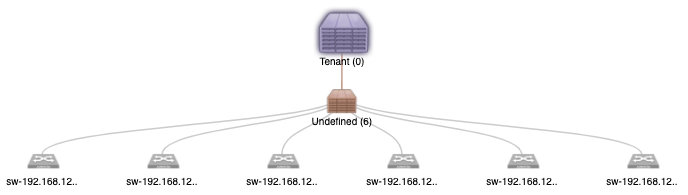
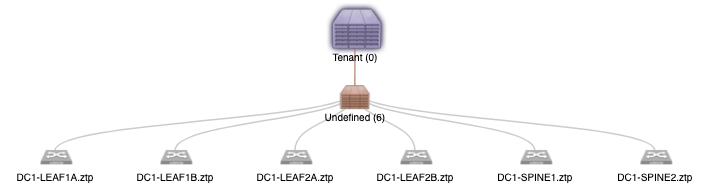
readme, playbook and dhcpd update

diff --git a/README.md b/README.md
@@ -5,6 +5,7 @@
 - [ANSIBLE-CVP COOKIECUTTER](#ansible-cvp-cookiecutter)
   - [Description](#description)
   - [Lab Topology](#lab-topology)
+  - [Clone Cookiecutter Repository](#clone-cookiecutter-repository)
   - [Preparing the Lab](#preparing-the-lab)
   - [HOW TO RUN](#how-to-run)
 
@@ -24,6 +25,23 @@ The lab must be created before using cookiecutter using EVE-NG, GNS3, KVM or sim
 
 All VMs in the lab should have access to a shared OOB network with a linux machine used to provide DHCP service and to route packets to CVP.
 
+## Clone Cookiecutter Repository
+
+To clone cookiecutter repository run following commands:
+
+```console
+python3 -m venv .ccvenv
+source .ccvenv/bin/activate
+pip install cookiecutter
+cookiecutter gh:ankudinov-labs-and-demos/ansible-cvp-cookiecutter --no-input --checkout master --overwrite-if-exists
+```
+
+If you want to use different settings, fork/clone the repository and create your own cookiecutter.json first.
+
+Change your current working directory to the project directory created by cookiecutter and run `setup.sh`. This script will create Python virtual environment called `.venv` and install required dependencies.
+
+If you are using VSCode, type `code .`
+
 ## Preparing the Lab
 
 Before using the cookiecutter the switches in the lab must be registered on CVP as part of ZTP process.
@@ -39,69 +57,11 @@ systemctl enable isc-dhcp-server
 systemctl start isc-dhcp-server
 ```
 
-dhcpd.conf example:
-
-```text
-#
-# DHCP Server Configuration file.
-#   see /usr/share/doc/dhcp*/dhcpd.conf.example
-#   see dhcpd.conf(5) man page
-#
-
-subnet 192.168.122.0 netmask 255.255.255.0 {
-  range 192.168.122.11 192.168.122.29;
-  option subnet-mask 255.255.255.0;
-  option domain-name "ztp";
-  option routers 192.168.122.1;
-  interface virbr0;
-  option bootfile-name "http://192.168.122.122/ztp/bootstrap";
-}
-
-host S1 {
-  option host-name "DC1-SPINE1";
-  hardware ethernet 00:0c:29:78:01:00;
-  fixed-address 192.168.122.11;
-}
-
-host S2 {
-  option host-name "DC1-SPINE2";
-  hardware ethernet 00:0c:29:78:02:00;
-  fixed-address 192.168.122.12;
-}
-
-host L1 {
-  option host-name "DC1-LEAF1A";
-  hardware ethernet 00:0c:29:78:11:00;
-  fixed-address 192.168.122.21;
-}
-
-host L2 {
-  option host-name "DC1-LEAF1B";
-  hardware ethernet 00:0c:29:78:12:00;
-  fixed-address 192.168.122.22;
-}
-
-host L3 {
-  option host-name "DC1-LEAF2A";
-  hardware ethernet 00:0c:29:78:13:00;
-  fixed-address 192.168.122.23;
-}
-
-host L4 {
-  option host-name "DC1-LEAF2B";
-  hardware ethernet 00:0c:29:78:14:00;
-  fixed-address 192.168.122.24;
-}
-```
+dhcpd.conf file will be generated automatically by cookiecutter. Just copy-paste the content or use it as an example to adjust your DHCP server settings.
 
 All devices should register in Undefined container before you start:
 ![initial cvp state](media/initial_cvp_state.png)
 
 ## HOW TO RUN
 
-```console
-python3 -m venv .ccvenv
-source .ccvenv/bin/activate
-pip install cookiecutter
-cookiecutter gh:ankudinov-labs-and-demos/ansible-cvp-cookiecutter
-```
+tbd
